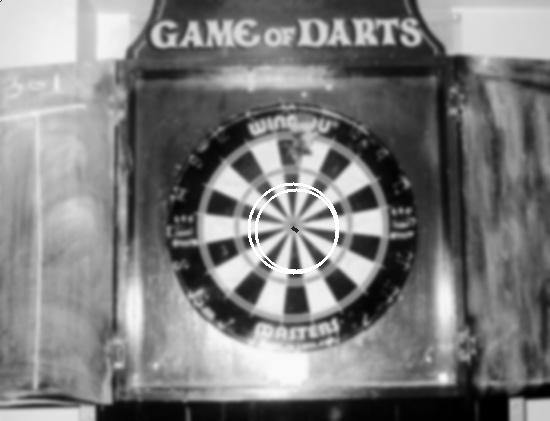
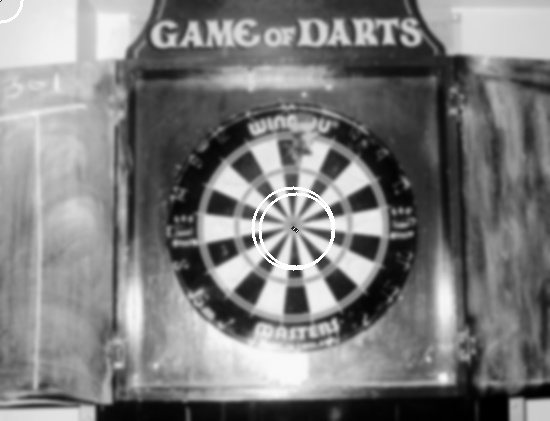
Goddamn it opencv

Changed region(s): [[0.4327, 0.4323, 0.6182, 0.6485], [0.0309, 0.0, 0.0618, 0.0309], [0.0, 0.0309, 0.0309, 0.0618]]

diff --git a/dartboard.cpp b/dartboard.cpp
@@ -411,7 +411,7 @@ void houghCircle(Mat &edges, Mat &thetas, Mat &grey, Mat &space)
 			}
 			// Bigger cicle = bestcirc radius*1.5 -> max radius
 			//Smaller circle = bestcirc radius*2/3 -> min radius
-			for(int k = 0;k < RADIUS_RANGE;k++)
+			for(int k = 0;k < (bestCirc[3]-MIN_RAD)*(2/3);k++)
 			{
 				int votes = 0;
 				imval += houghSpace[i][j][k]*1;
@@ -427,16 +427,36 @@ void houghCircle(Mat &edges, Mat &thetas, Mat &grey, Mat &space)
 				}
 				if(votes > 700)
 				{
-					if (votes > bestCirc[0])
+					if (votes > concentric[0])
 					{
-						bestCirc[0] = votes;
-						bestCirc[1] = i;
-						bestCirc[2] = j;
-						bestCirc[3] = k+MIN_RAD;
+						concentric[0] = votes;
+						concentric[1] = k+MIN_RAD;
 					}
 				}
 			}
-
+			for(int k = (bestCirc[3]-MIN_RAD)*1.5;k < RADIUS_RANGE;k++)
+			{
+				int votes = 0;
+				imval += houghSpace[i][j][k]*1;
+				if(imval > 255)imval = 255;
+				votes += houghSpace[i][j][k];
+				votes += houghSpace[i+1][j][k];
+				votes += houghSpace[i-1][j][k];
+				votes += houghSpace[i][j+1][k];
+				votes += houghSpace[i][j-1][k];
+				if (votes != 0)
+				{
+					votes = (votes * 1000) / (highestVotes);
+				}
+				if(votes > 700)
+				{
+					if (votes > concentric[0])
+					{
+						concentric[0] = votes;
+						concentric[1] = k+MIN_RAD;
+					}
+				}
+			}
 			int bestCircX = bestCirc[1];
 			int bestCircY = bestCirc[2];
 			int bestCircRad = bestCirc[3];
@@ -450,6 +470,20 @@ void houghCircle(Mat &edges, Mat &thetas, Mat &grey, Mat &space)
 				for(int x = -(bestCircRad);x < (bestCircRad+1);x++)
 				{
 					if(sqrt((x*x) + (y*y)) <= (bestCircRad) && sqrt((x*x) + (y*y)) > (bestCircRad-1))
+					{
+						if (bestCircX+x < 0 || bestCircX+x > edges.cols || bestCircY+y < 0 || bestCircY+y > edges.rows){ }
+						else
+						{
+							grey.at<uchar>(bestCircY + y, bestCircX + x) = 255;
+						}
+					}
+				}
+			}
+			for(int y = -(concentric[1]);y < (concentric[1]+1);y++)
+			{
+				for(int x = -(concentric[1]);x < (concentric[1]+1);x++)
+				{
+					if(sqrt((x*x) + (y*y)) <= (concentric[1]) && sqrt((x*x) + (y*y)) > (concentric[1]-1))
 					{
 						if (bestCircX+x < 0 || bestCircX+x > edges.cols || bestCircY+y < 0 || bestCircY+y > edges.rows){ }
 						else
